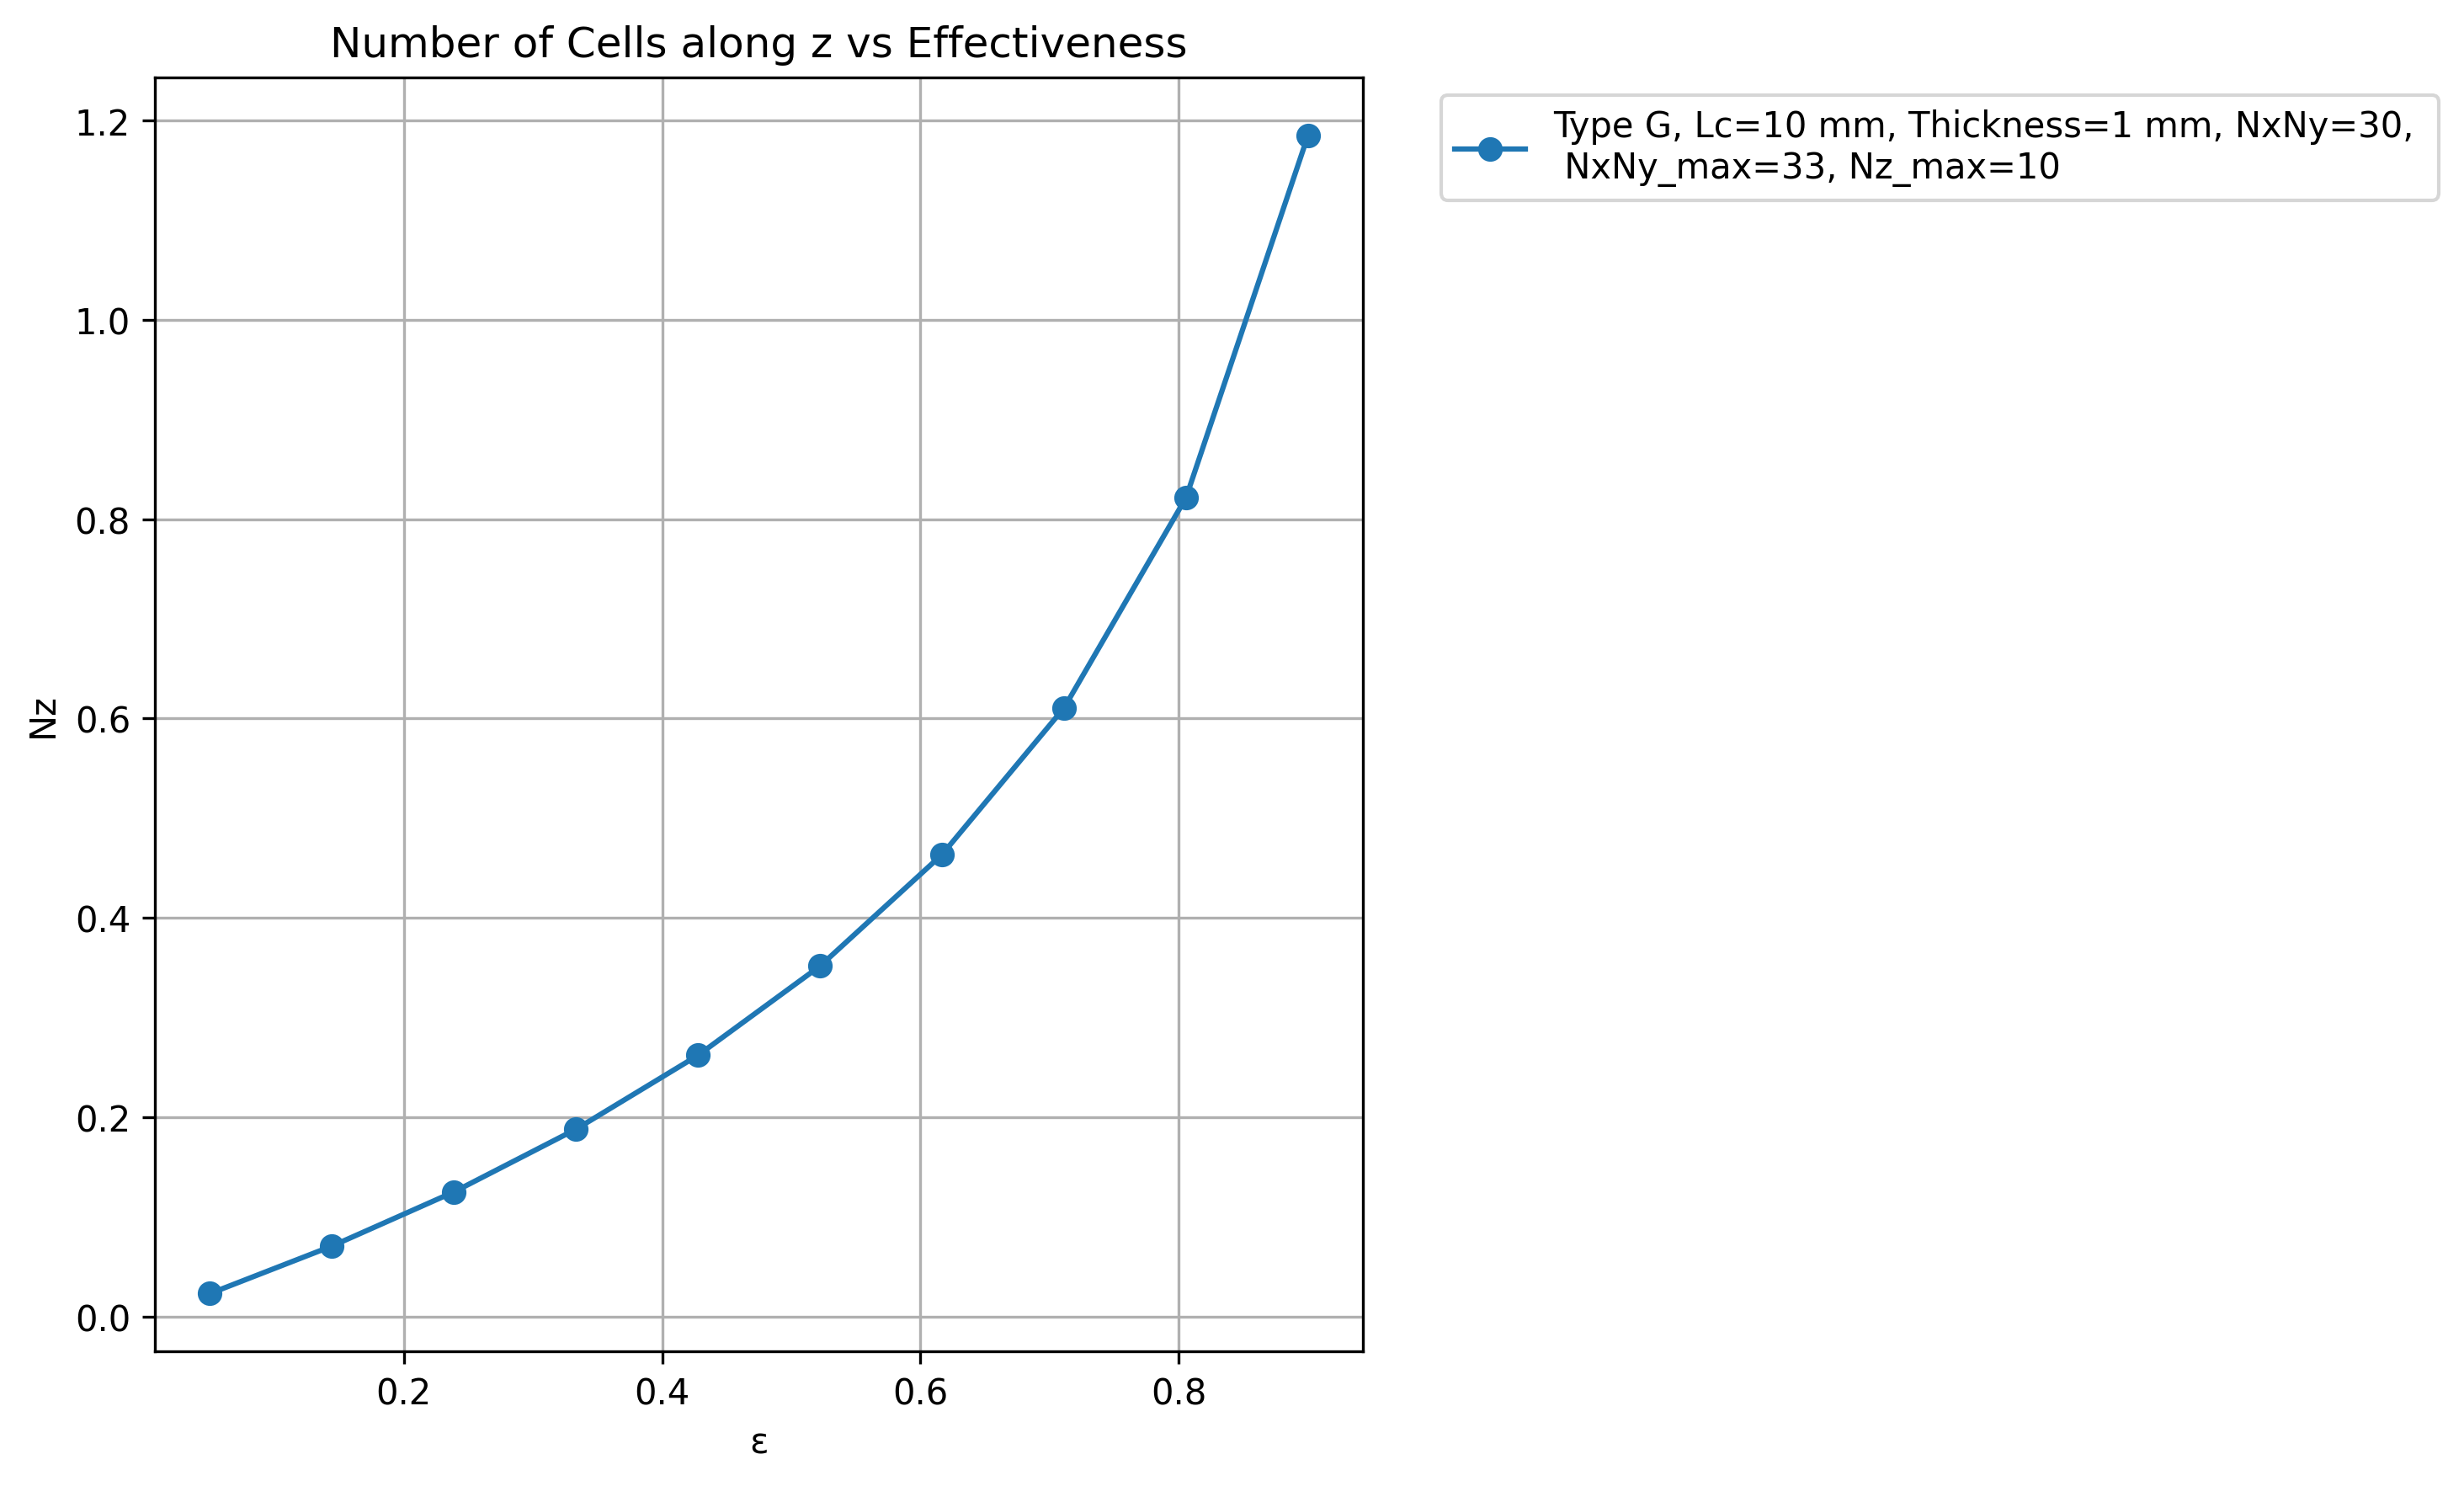
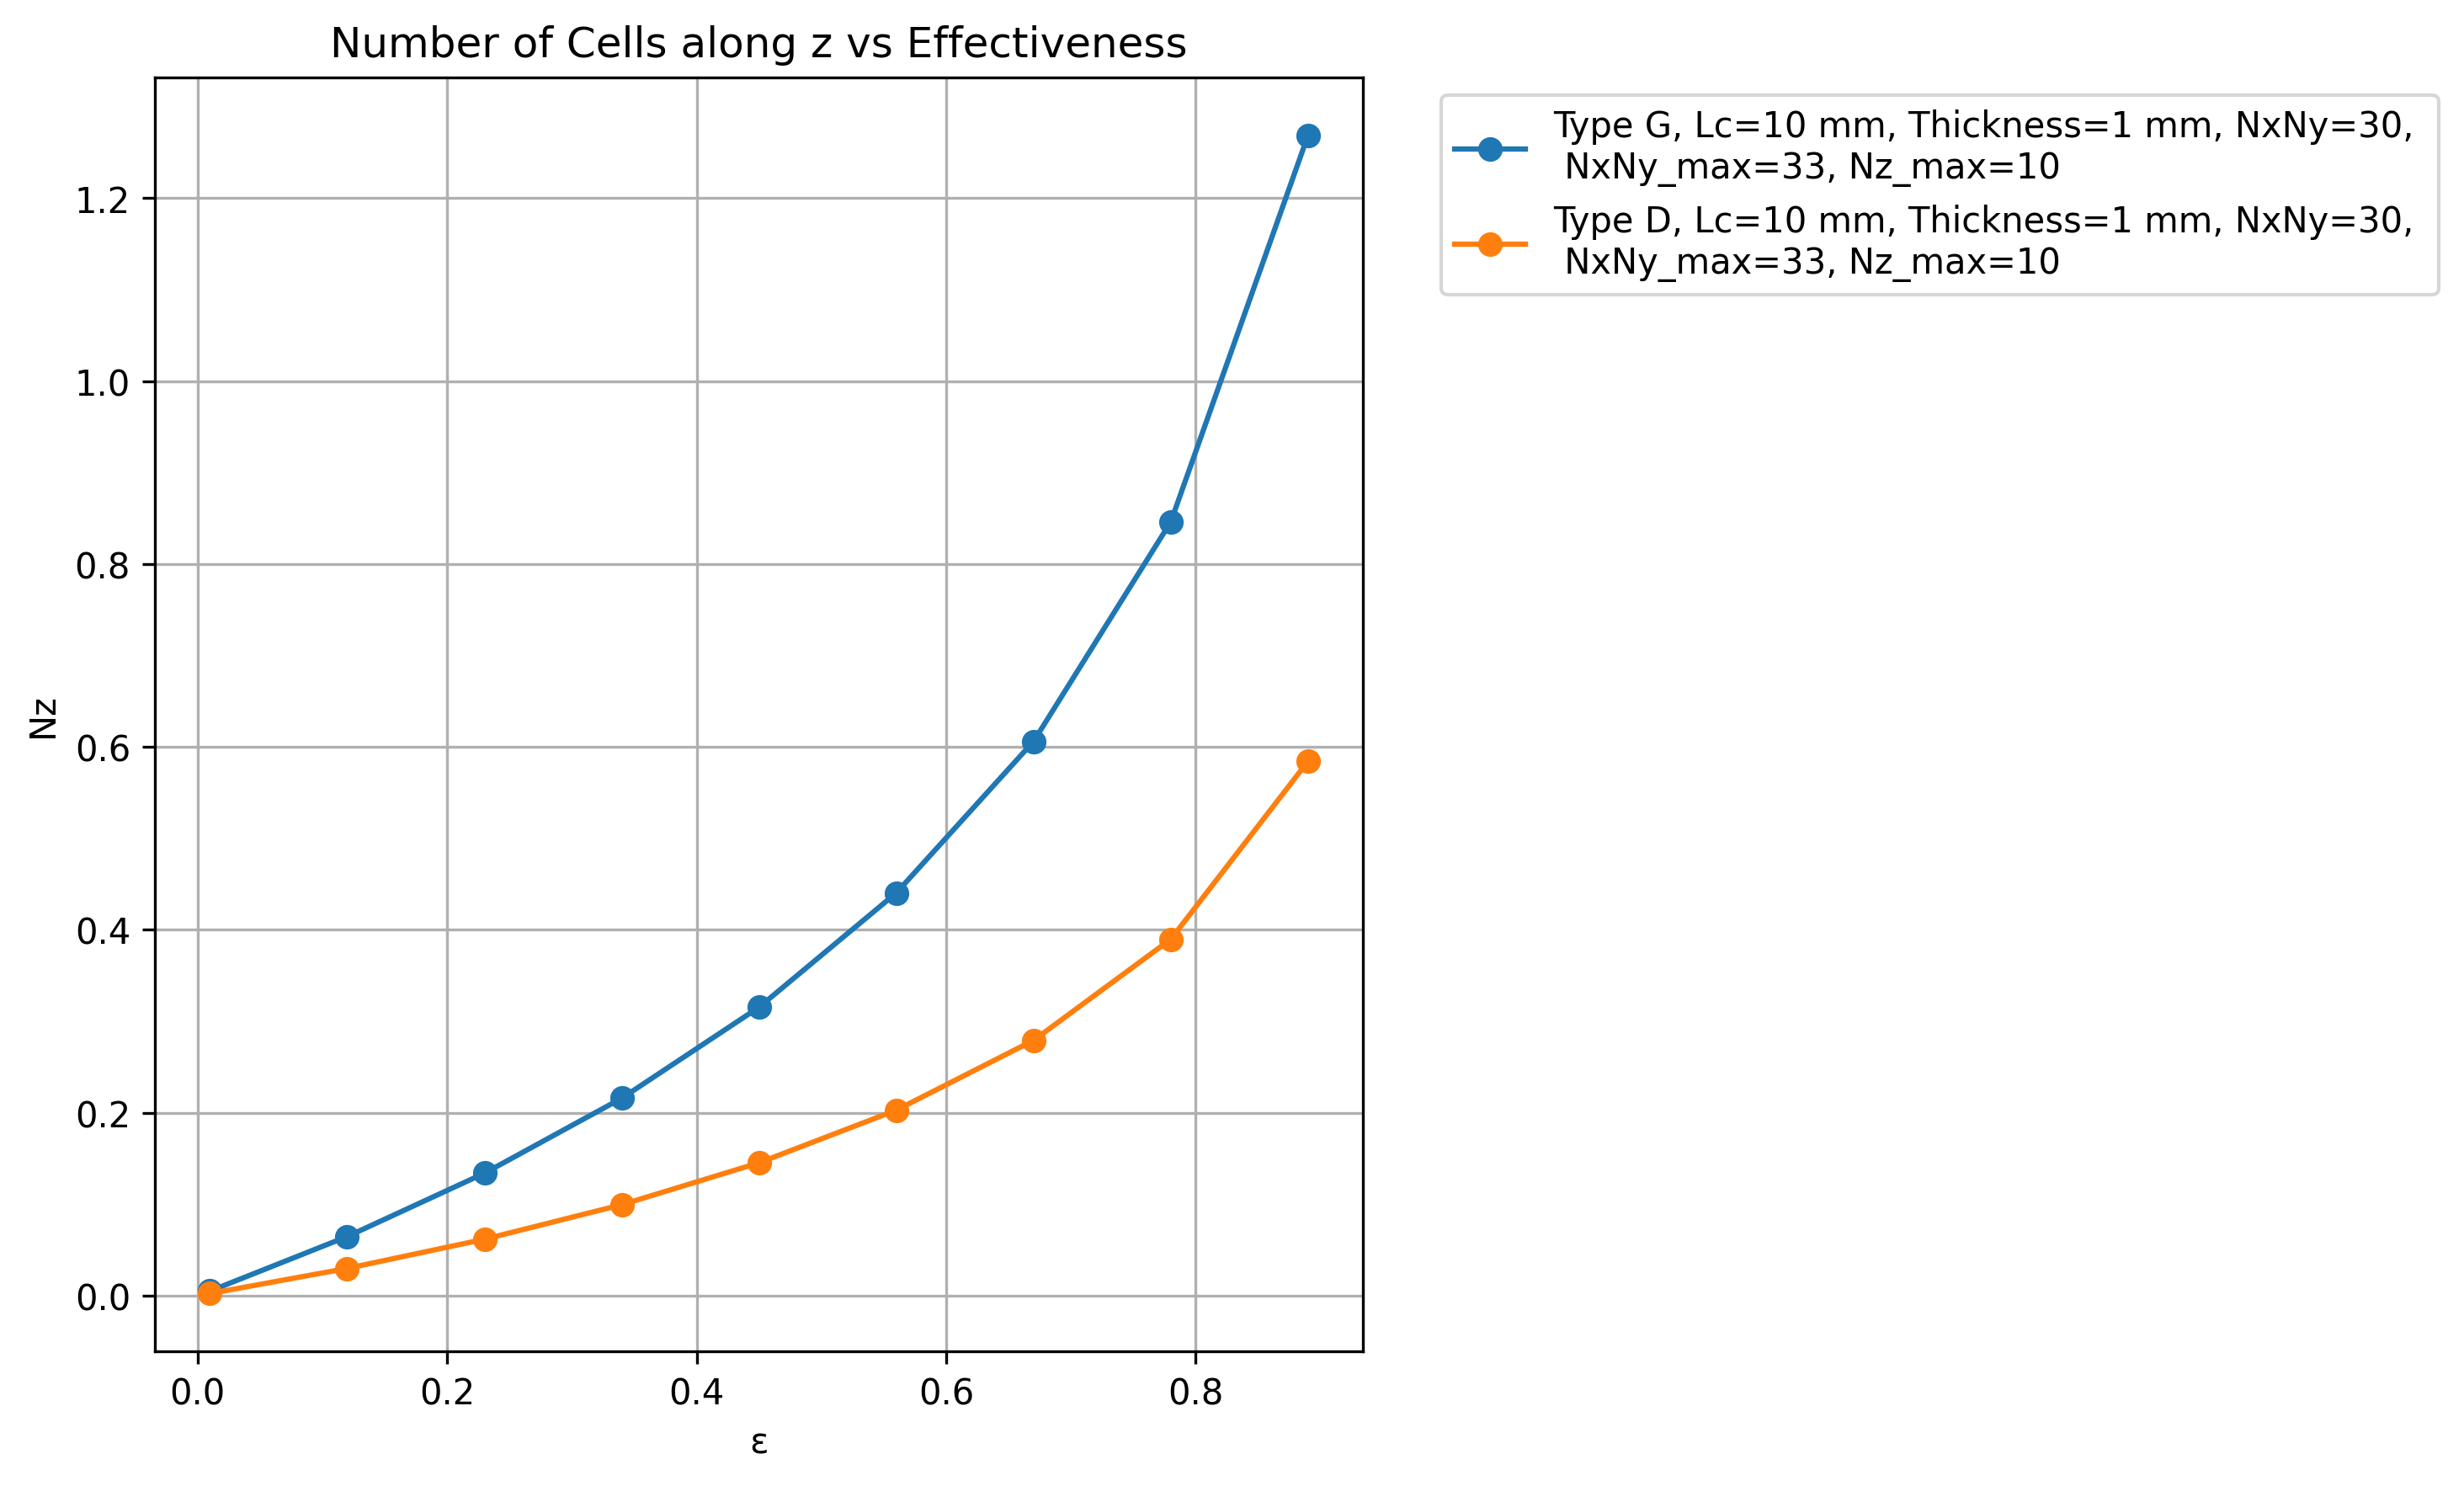
aggiunto print 6 cells

diff --git a/Number_of_cells_STAR.py b/Number_of_cells_STAR.py
@@ -17,7 +17,7 @@ m_h =  3.1e-4# Mass flow rate (kg/s)
 m_c = 6.7e-5 # Mass flow rate (kg/s)
 T_hi = 50 # Inlet temperature of hot fluid (°C)
 T_ci = 20 # Inlet temperature of cold fluid (°C) [= T_amb = 18/25°C]
-eps =  np.linspace(0.05, 0.9, 10) # Effectiveness of the heat exchanger (range: 0.5 to 0.9)
+eps =  np.linspace(0.01, 1, 10) # Effectiveness of the heat exchanger (range: 0.5 to 0.9)
 
 # Maximum volume of the heat exchanger
 Axy_max = (55 - 2) * (65 - 2) * 1e-6 # Maximum cross-sectional area of the HX (m^2)
@@ -129,6 +129,8 @@ plt.close()
 
 plt.figure(figsize=(10, 6))
 
+print(f"{'Type':<8} {'Lc':>6} {'Thickness':>10} {'NxNy':>6} {'V_resin_6cells [mm^3]':>24}")
+
 for config in configurations:
     Type = config['Type']
     Lc = config['Lc']
@@ -145,6 +147,9 @@ for config in configurations:
 
     N_cells = UA / UA_cell
     V_resin = N_cells * V_resin_cell # Total resin volume in mm^3
+    V_resin_6cells = NxNy * 6 * V_resin_cell 
+
+    print(f"{Type:<8} {Lc:>6} {Thickness:>10} {NxNy:>6} {V_resin_6cells:>24.3f}")
 
     legend_label = f'Type {Type}, Lc={Lc} mm, Thickness={Thickness} mm, NxNy={NxNy}'
     line, = plt.plot(eps, V_resin, marker='o', label=legend_label)